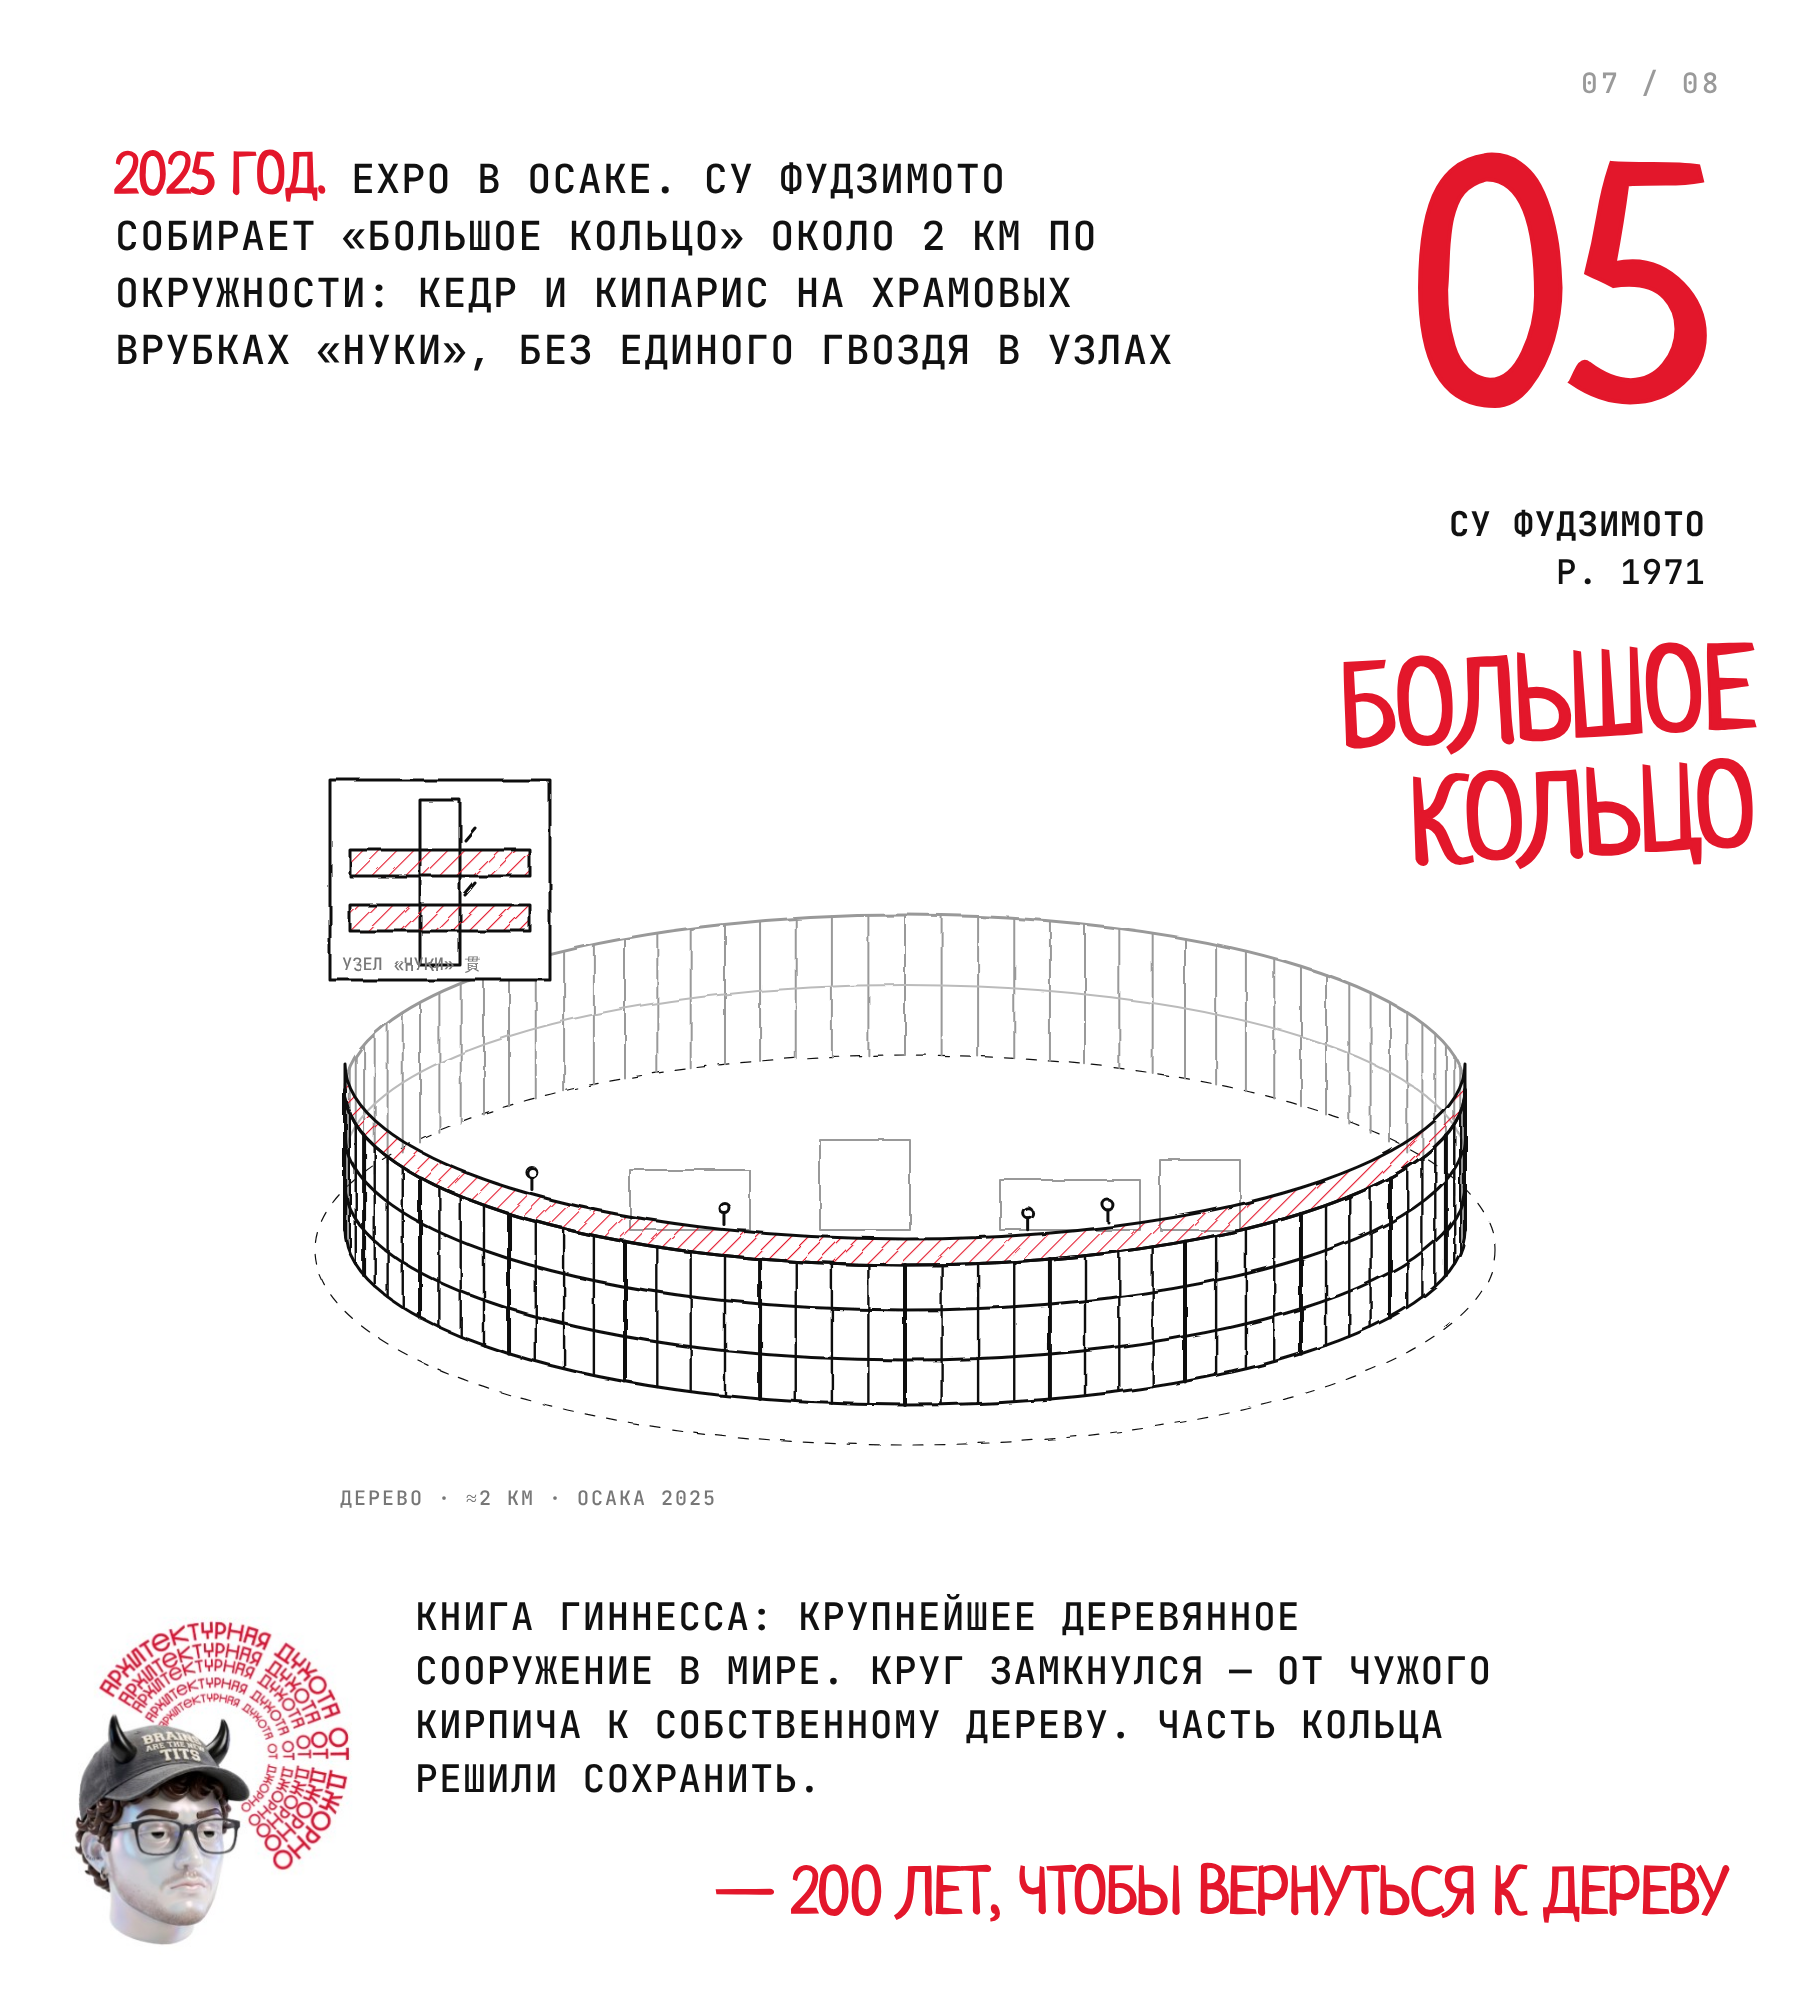
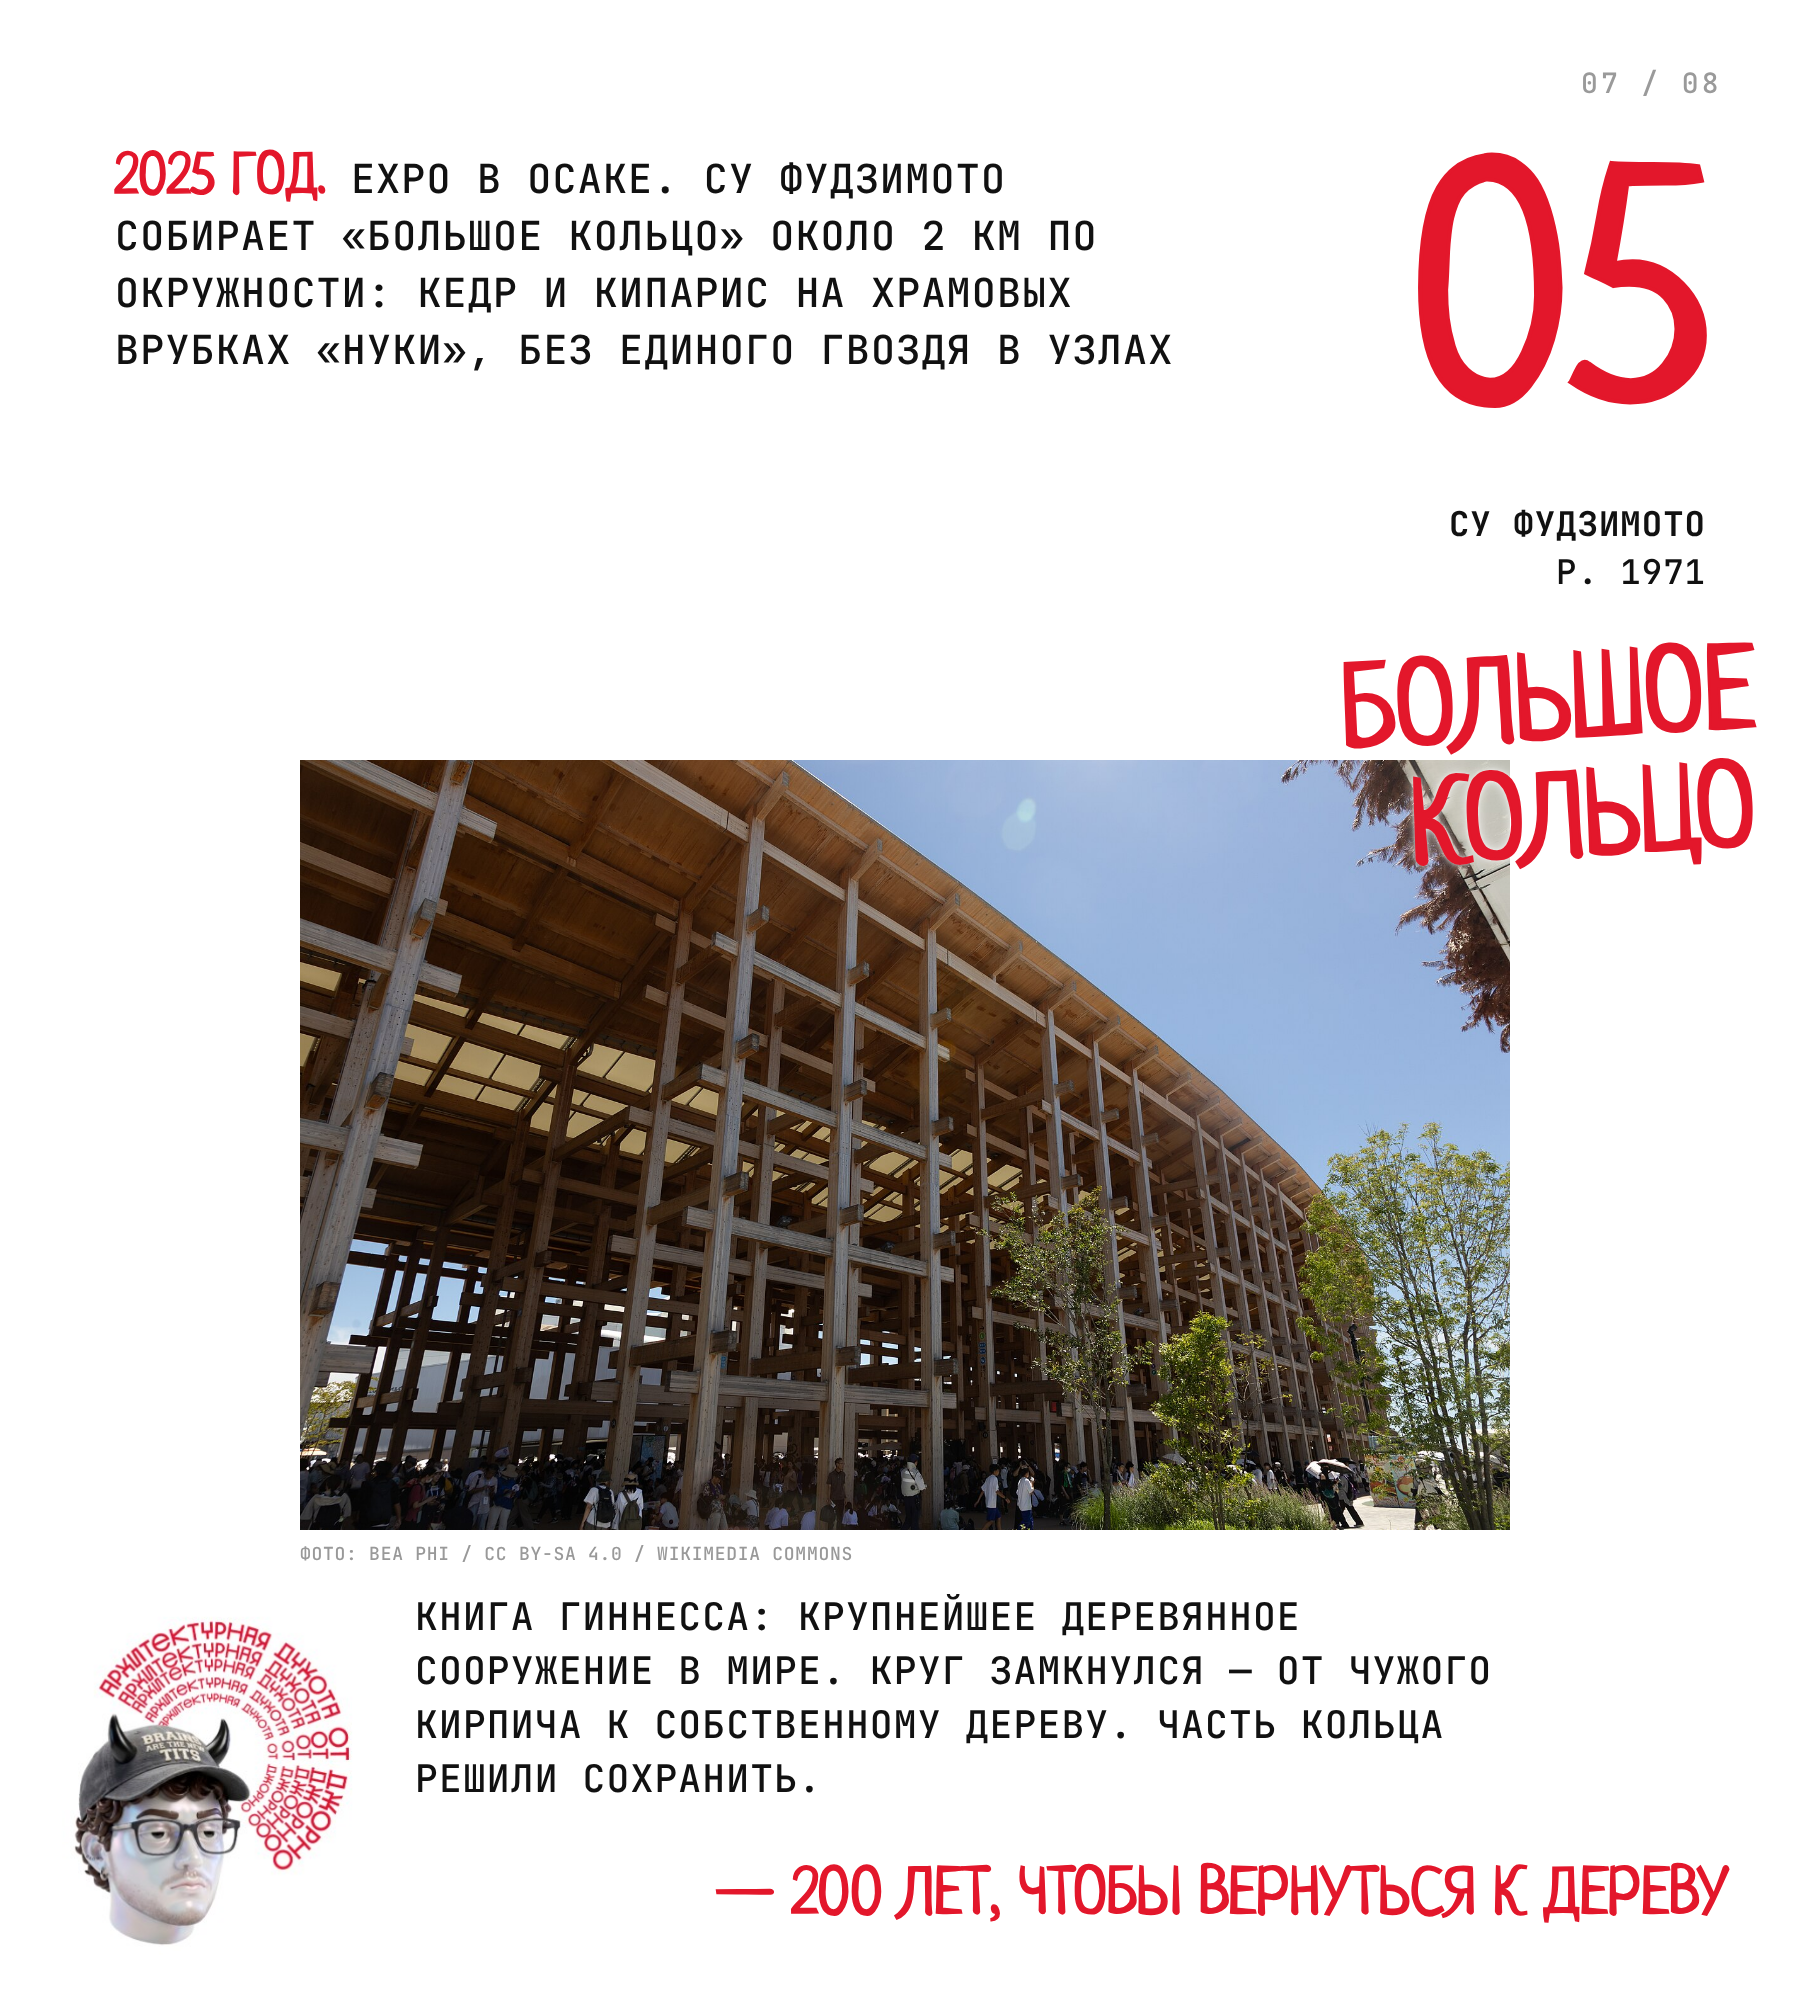
Carousel: real Grand Ring photo, portrait slot styled for cutouts
Claude-Session: https://claude.ai/code/session_01P3H123YjJAsg9f2r9Q6Sv8

Changed region(s): [[0.154, 0.372, 0.8317, 0.775]]

diff --git a/carousel/japan-architects/carousel.html b/carousel/japan-architects/carousel.html
@@ -29,7 +29,7 @@
   .art .ph { display:flex; gap:14px; width:100%; height:100%; }
   .art .ph img { flex:1; min-width:0; height:100%; object-fit:cover; display:block; }
   .credit { position:absolute; left:0; top:782px; font-family:'JetBrains Mono'; font-size:18px; color:#999; letter-spacing:0.04em; white-space:nowrap; }
-  .portrait { display:none; position:absolute; right:100px; top:100px; width:400px; height:480px; object-fit:cover; object-position:50% 20%; filter:grayscale(1) contrast(1.12); }
+  .portrait { display:none; position:absolute; right:90px; top:90px; width:420px; height:500px; object-fit:contain; object-position:50% 100%; filter:grayscale(1) contrast(1.15); }
   .has-portrait .portrait { display:block; }
   .has-portrait .num { right:auto; left:auto; top:420px; right:430px; font-size:190px; -webkit-text-stroke:3px var(--red); text-shadow:0 0 10px #fff; z-index:2; }
   .has-portrait .who { top:622px; font-size:30px; }

diff --git a/carousel/japan-architects/assets/photos/credits.js b/carousel/japan-architects/assets/photos/credits.js
@@ -3,5 +3,6 @@ window.CREDITS = {
   "tokyo-station":   "掬茶 / CC BY-SA 3.0 / WIKIMEDIA COMMONS",
   "yoyogi":          "KAKIDAI / CC BY-SA 4.0 / WIKIMEDIA COMMONS",
   "nakagin":         "NESNAD / CC BY 3.0 · KAKIDAI / CC BY-SA 4.0 / WIKIMEDIA COMMONS",
-  "church-of-light": "BERGMANN / CC BY-SA 3.0 / WIKIMEDIA COMMONS"
+  "church-of-light": "BERGMANN / CC BY-SA 3.0 / WIKIMEDIA COMMONS",
+  "grand-ring":      "BEA PHI / CC BY-SA 4.0 / WIKIMEDIA COMMONS"
 };
